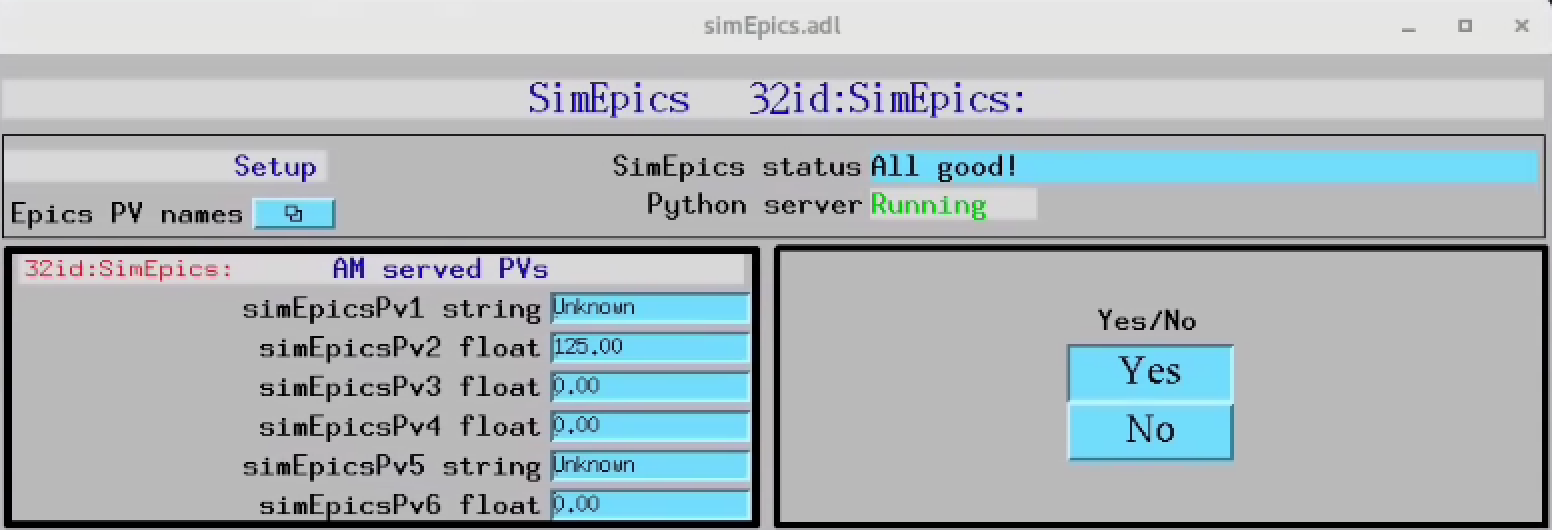
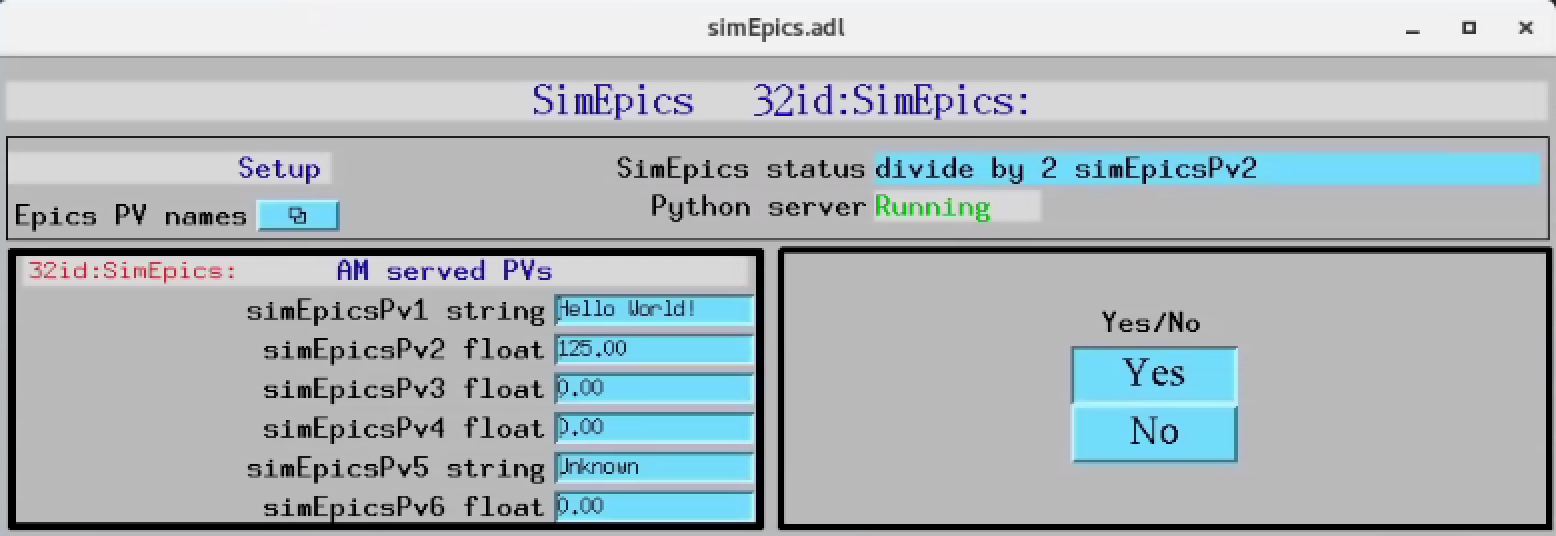
added Hello World! message

diff --git a/simepics/simepics.py b/simepics/simepics.py
@@ -170,12 +170,14 @@ class SimEpics():
         """
 
         if (self.epics_pvs['YesNoSelect'].get() == 0):
-            am_control_pv2_value = self.epics_pvs['simEpicsPv2'].get()
-            self.epics_pvs['simEpicsPv2'].put(am_control_pv2_value/2.0)
-            log.info('Yes/No set at %f' % am_control_pv2_value)
-            self.epics_pvs['SimEpicsStatus'].put('divide by 2')
+            sim_epics_pv2_value = self.epics_pvs['simEpicsPv2'].get()
+            self.epics_pvs['simEpicsPv1'].put('Hello World!')
+            self.epics_pvs['simEpicsPv2'].put(sim_epics_pv2_value/2.0)
+            log.info('Yes/No set at %f' % sim_epics_pv2_value)
+            self.epics_pvs['SimEpicsStatus'].put('divide by 2 simEpicsPv2')
         else:
-            am_control_pv2_value = self.epics_pvs['simEpicsPv2'].get()
-            self.epics_pvs['simEpicsPv2'].put(am_control_pv2_value*2.0)
-            log.info('Yes/No set at %f' % am_control_pv2_value)
-            self.epics_pvs['SimEpicsStatus'].put('multiply by 2')
+            sim_epics_pv2_value = self.epics_pvs['simEpicsPv2'].get()
+            self.epics_pvs['simEpicsPv1'].put('Hello APS!')
+            self.epics_pvs['simEpicsPv2'].put(sim_epics_pv2_value*2.0)
+            log.info('Yes/No set at %f' % sim_epics_pv2_value)
+            self.epics_pvs['SimEpicsStatus'].put('multiply by 2 simEpicsPv2')
